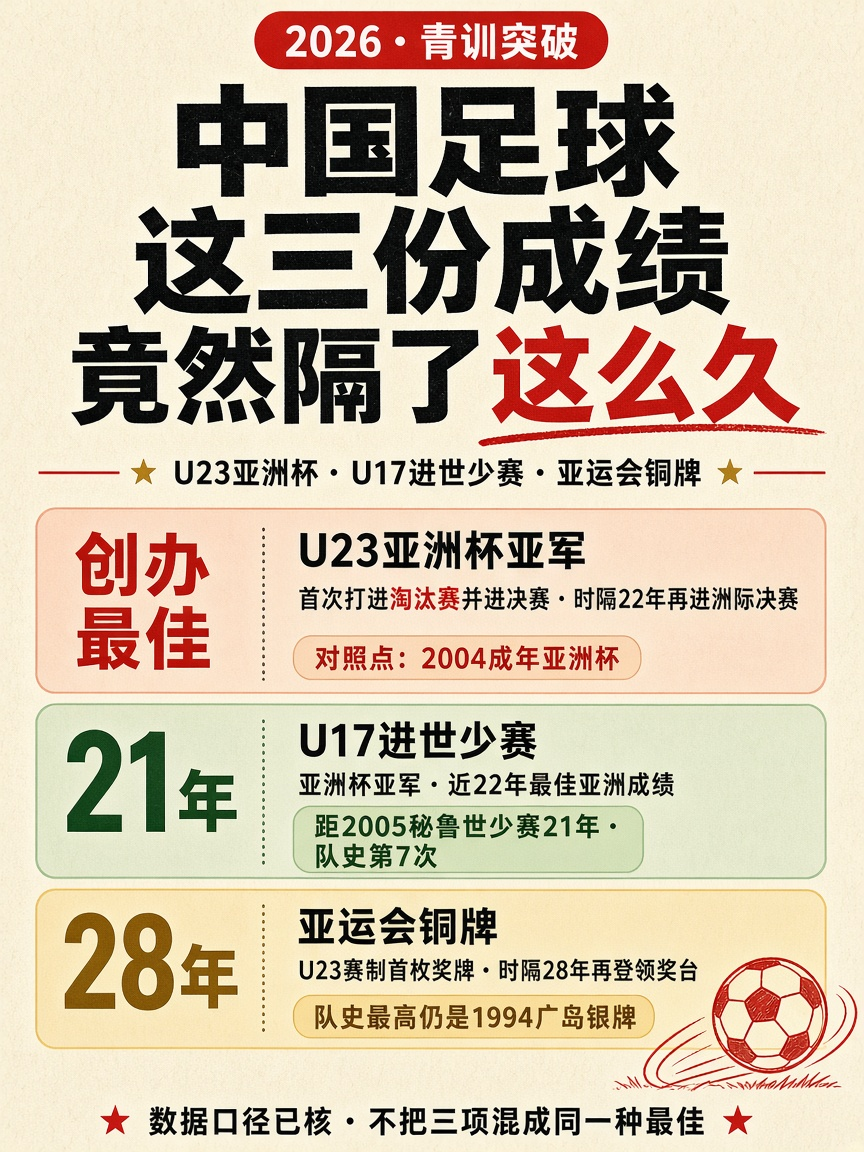
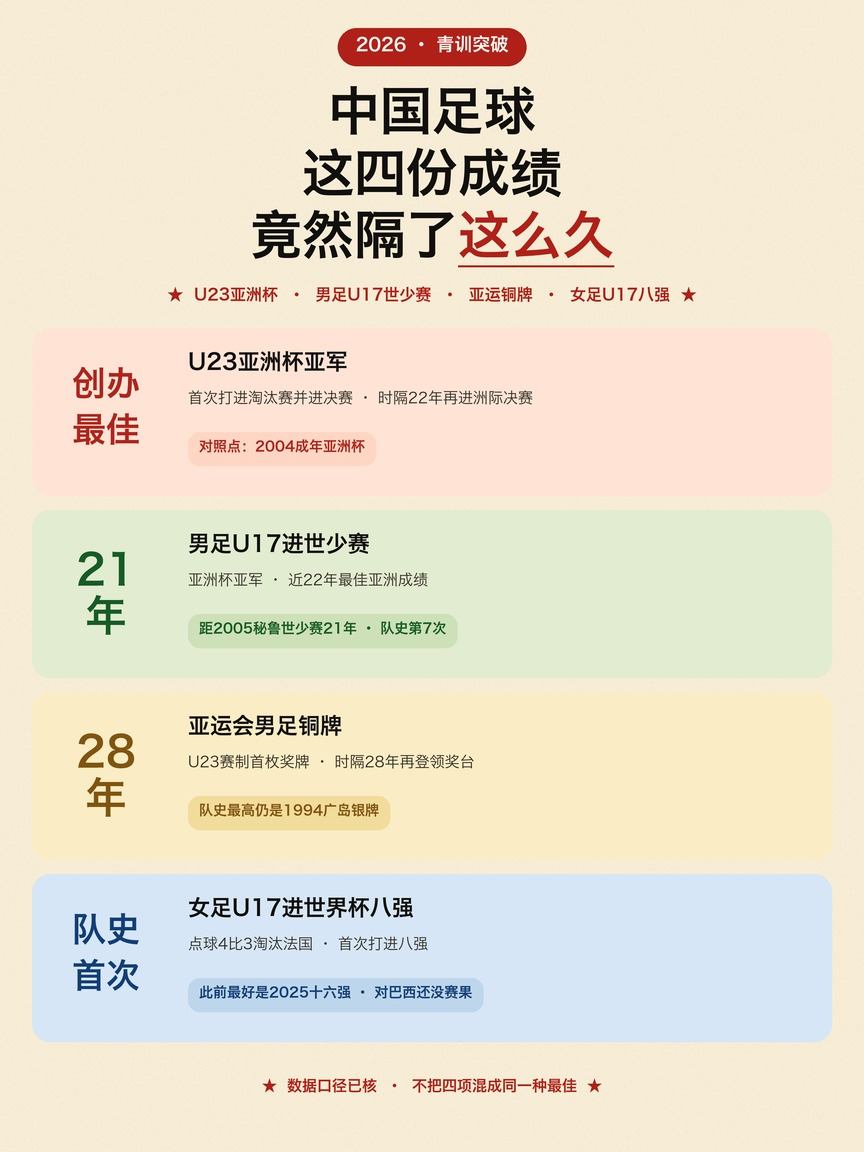
Add the U17 women's first World Cup quarter-final to the 2026 milestones.
The France penalty win is recorded as a first quarter-final, while the unplayed match against Brazil stays without a result.

diff --git a/assets/app.js b/assets/app.js
@@ -123,7 +123,7 @@ const UI_COPY = {
     "page.story-detail.title": "故事详情 | 青训球员追踪站",
     "page.story-detail.description": "查看人物和机构故事的时间线、公开争议与来源边界。",
     "page.milestones.title": "2026 里程碑 | 青训球员追踪站",
-    "page.milestones.description": "对照 2026 年中国男足 U23 亚洲杯亚军、U17 进世少赛和亚运会铜牌的历史间隔口径。",
+    "page.milestones.description": "对照 2026 年 U23 亚洲杯亚军、男足 U17 进世少赛、亚运会铜牌和女足 U17 世界杯八强的历史口径。",
     "site.kicker": "青训追踪台",
     "site.brand": "青训球员追踪站",
     "nav.aria": "主导航",
@@ -208,8 +208,8 @@ const UI_COPY = {
     "nav.dataCenter": "数据中心",
     "nav.predictions": "世界杯预测",
     "milestones.hero.eyebrow": "2026 Milestones",
-    "milestones.hero.title": "2026 中国男足里程碑",
-    "milestones.hero.text": "对照 U23 亚洲杯亚军、U17 进世少赛和亚运会铜牌分别隔了多久，以及每条成绩不能写成什么。",
+    "milestones.hero.title": "2026 中国足球里程碑",
+    "milestones.hero.text": "对照 U23 亚洲杯亚军、男足 U17 进世少赛、亚运会铜牌和女足 U17 世界杯八强，以及每条成绩不能写成什么。",
     "milestones.coverage.eyebrow": "Coverage",
     "milestones.coverage.value": "{count} 项已核成绩",
     "milestones.coverage.checked": "核查至 {date}",
@@ -251,7 +251,7 @@ const UI_COPY = {
     "home.quickLinks.tournamentsTitle": "赛事",
     "home.quickLinks.tournamentsText": "查看赛事时间、结果和中国队比赛明细。",
     "home.quickLinks.milestonesTitle": "2026里程碑",
-    "home.quickLinks.milestonesText": "对照三项成绩分别隔了多久，以及不能写成什么。",
+    "home.quickLinks.milestonesText": "对照四项成绩的历史口径，以及不能写成什么。",
     "home.quickLinks.overseasTitle": "留洋",
     "home.quickLinks.overseasText": "区分当前留洋样本与历史记录。",
     "home.quickLinks.spainTitle": "西班牙体系",
@@ -1279,7 +1279,7 @@ const UI_COPY = {
     "page.story-detail.title": "Story Detail | Youth Player Tracking Desk",
     "page.story-detail.description": "Timelines, public exchanges and source boundaries for people and institutions.",
     "page.milestones.title": "2026 Milestones | Youth Player Tracking Desk",
-    "page.milestones.description": "Compare China’s 2026 U23 Asian Cup runners-up, U17 World Cup qualification and Asian Games bronze against their historical intervals.",
+    "page.milestones.description": "Compare China’s 2026 U23 Asian Cup runners-up, men’s U17 World Cup qualification, Asian Games bronze and U17 women’s World Cup quarter-final.",
     "site.kicker": "Youth Tracking Desk",
     "site.brand": "Youth Player Tracking Desk",
     "nav.aria": "Main navigation",
@@ -1364,8 +1364,8 @@ const UI_COPY = {
     "nav.dataCenter": "Data",
     "nav.predictions": "World Cup Forecast",
     "milestones.hero.eyebrow": "2026 Milestones",
-    "milestones.hero.title": "China men’s 2026 milestones",
-    "milestones.hero.text": "Compare the U23 Asian Cup runners-up finish, U17 World Cup qualification and Asian Games bronze, including the interval each one waited and claims to avoid.",
+    "milestones.hero.title": "China's 2026 milestones",
+    "milestones.hero.text": "Compare the U23 Asian Cup runners-up finish, the men's U17 World Cup qualification, the Asian Games bronze and the U17 women's World Cup quarter-final, including what not to claim.",
     "milestones.coverage.eyebrow": "Coverage",
     "milestones.coverage.value": "{count} verified results",
     "milestones.coverage.checked": "Checked {date}",
@@ -1407,7 +1407,7 @@ const UI_COPY = {
     "home.quickLinks.tournamentsTitle": "Tournaments",
     "home.quickLinks.tournamentsText": "Check tournament dates, results, and China match detail.",
     "home.quickLinks.milestonesTitle": "2026 milestones",
-    "home.quickLinks.milestonesText": "See how long each of the three results waited, and what not to claim.",
+    "home.quickLinks.milestonesText": "See the historical frame for each of the four results, and what not to claim.",
     "home.quickLinks.overseasTitle": "Overseas",
     "home.quickLinks.overseasText": "Separate current overseas samples from historical records.",
     "home.quickLinks.spainTitle": "Spain system",
@@ -8323,7 +8323,7 @@ function renderMilestonesPage() {
             ${(item.sources ?? []).map((source) => `
               <a class="chip" href="${escapeHtml(source.url)}" target="_blank" rel="noreferrer">${escapeHtml(source.label)}</a>
             `).join("")}
-            <a class="inline-link" href="./tournament.html?id=${encodeURIComponent(tournamentId)}">${escapeHtml(t("milestones.card.viewTournament"))}</a>
+            <a class="inline-link" href="${escapeHtml(item.page_href || `./tournament.html?id=${encodeURIComponent(tournamentId)}`)}">${escapeHtml(item.page_label ? localizeText(item.page_label) : t("milestones.card.viewTournament"))}</a>
           </div>
         </div>
       </article>

diff --git a/milestones.html b/milestones.html
@@ -6,7 +6,7 @@
     <title>2026 里程碑 | 青训球员追踪站</title>
     <meta
       name="description"
-      content="对照 2026 年中国男足 U23 亚洲杯亚军、U17 进世少赛和亚运会铜牌的历史间隔口径。"
+      content="对照 2026 年 U23 亚洲杯亚军、男足 U17 进世少赛、亚运会铜牌和女足 U17 世界杯八强的历史口径。"
     />
     <link rel="stylesheet" href="./assets/styles.css?v=20261004-milestones" />
   </head>
@@ -44,8 +44,8 @@
         <section class="page-hero hero-tight">
           <div class="hero-copy">
             <p class="eyebrow" data-i18n="milestones.hero.eyebrow">2026 Milestones</p>
-            <h1 data-i18n="milestones.hero.title">2026 中国男足里程碑</h1>
-            <p class="hero-text" data-i18n="milestones.hero.text">对照 U23 亚洲杯亚军、U17 进世少赛和亚运会铜牌分别隔了多久，以及每条成绩不能写成什么。</p>
+            <h1 data-i18n="milestones.hero.title">2026 中国足球里程碑</h1>
+            <p class="hero-text" data-i18n="milestones.hero.text">对照 U23 亚洲杯亚军、男足 U17 进世少赛、亚运会铜牌和女足 U17 世界杯八强，以及每条成绩不能写成什么。</p>
           </div>
           <aside class="hero-spotlight">
             <p class="eyebrow" data-i18n="milestones.coverage.eyebrow">Coverage</p>
@@ -67,8 +67,8 @@
           <figure class="milestone-poster">
             <img
               id="milestonesPoster"
-              src="./assets/xiaohongshu-china-football-2026.jpg"
-              alt="2026 中国足球三项成绩的历史间隔图"
+              src="./assets/xiaohongshu-china-football-2026.jpg?v=20261101"
+              alt="2026 中国足球四项成绩图：U23 创办最佳、男足 U17 时隔 21 年、亚运时隔 28 年、女足 U17 队史首次八强"
             />
           </figure>
         </section>
@@ -85,6 +85,6 @@
         </nav>
       </footer>
     </div>
-    <script type="module" src="./assets/app.js?v=20261004-youth-disputes"></script>
+    <script type="module" src="./assets/app.js?v=20261101-u17-women"></script>
   </body>
 </html>

diff --git a/index.html b/index.html
@@ -122,7 +122,7 @@
               </a>
               <a class="quick-link-card" href="./milestones.html">
                 <h3 data-i18n="home.quickLinks.milestonesTitle">2026里程碑</h3>
-                <p data-i18n="home.quickLinks.milestonesText">对照三项成绩分别隔了多久，以及不能写成什么。</p>
+                <p data-i18n="home.quickLinks.milestonesText">对照四项成绩的历史口径，以及不能写成什么。</p>
               </a>
               <a class="quick-link-card" href="./overseas.html">
                 <h3 data-i18n="home.quickLinks.overseasTitle">留洋</h3>
@@ -185,6 +185,6 @@
       </footer>
     </div>
 
-    <script type="module" src="./assets/app.js?v=20261004-youth-disputes"></script>
+    <script type="module" src="./assets/app.js?v=20261101-u17-women"></script>
   </body>
 </html>

diff --git a/docs/research/china-2026-youth-breakthroughs.md b/docs/research/china-2026-youth-breakthroughs.md
@@ -1,13 +1,13 @@
-# 2026 中国男足三项突破的历史对照
+# 2026 中国足球四项成绩的历史对照
 
-更新时间：2026-10-04
+更新时间：2026-11-01
 
-2026 年中国男足国字号连续兑现三项可核成绩：U23 亚洲杯亚军、U17 亚洲杯亚军并获得 FIFA U-17 世界杯资格、爱知-名古屋亚运会铜牌。口语里常把 U17 世界杯叫成“世青赛”，站内仍区分：
+2026 年中国国字号记下四项可核成绩：U23 亚洲杯亚军、男足 U17 亚洲杯亚军并获得 FIFA U-17 世界杯资格、爱知-名古屋亚运会铜牌，以及女足 U17 世界杯八强。口语里常把 U17 世界杯叫成“世青赛”，站内仍区分：
 
-- **世少赛**：FIFA U-16 / U-17 World Championship / World Cup。2026 已获资格，赛事尚未开打。
+- **世少赛**：FIFA U-16 / U-17 World Championship / World Cup。男足 2026 已获资格，赛事尚未开打。女足 U17 世界杯是另一项赛事，见第 4 条。
 - **世青赛**：FIFA World Youth Championship / U-20 World Cup。中国男足最近一次参赛仍是 2005 荷兰，2026 没有新的 U20 世界赛资格。
 
-结构化摘要写在对应 `tournament-archive.json` 的 `china_summary`，以及 `tournaments.json` 的赛事说明。
+结构化摘要写在对应 `tournament-archive.json` 的 `china_summary`，以及 `tournaments.json` 的赛事说明。女足 U17 八强写在 `women-football.json` 和 `china-2026-milestones.json`，不并入男足赛事档案。
 
 ## 对照表
 
@@ -16,8 +16,9 @@
 | U23 亚洲杯亚军 | 该项赛事创办以来最佳；此前参加的决赛圈均未进入淘汰赛 | 赛事本身 2013 年起办，不是“时隔 N 年再获亚军”。另可记：时隔 22 年再进洲际大赛决赛，上次是 2004 成年亚洲杯亚军 | 中国男足各级队史最佳，或高于 2004 成年亚洲杯亚军 |
 | U17 亚洲杯亚军，并获 2026 世少赛资格 | 亚洲杯决赛是 2004 年后近 22 年最佳；世少赛资格是时隔 21 年重返，也是队史第 7 次 | 2004 亚少赛冠军 → 2026 亚军，间隔 22 年。2005 秘鲁世少赛 → 2026 卡塔尔世少赛，间隔 21 年 | 亚洲杯队史最佳（1992、2004 两次夺冠仍更高）；队史第 6 次世少赛；把这次写成世青赛资格 |
 | 亚运会男足铜牌 | 时隔 28 年再获亚运奖牌；2002 年改为 U23 加超龄后首次奖牌、也是该赛制下最佳 | 1998 曼谷铜牌 → 2026 铜牌，间隔 28 年 | 队史最佳（1994 广岛银牌仍更高）；1978 曼谷是铜牌并列金牌（朝韩并列金牌，中国铜牌） |
+| 女足 U17 世界杯八强 | 该项赛事已建档决赛圈的首次八强；此前已完赛最好成绩是 2025 十六强 | 不是“时隔 N 年再进八强”。对照点是 2025 十六强，以及已建档的 5 次决赛圈参赛 | 中国女足世界杯队史最佳（成年队 1999 亚军仍更高）；第 6 次参赛；把尚未开打的对巴西写成晋级四强 |
 
-## 三项突破
+## 四项成绩
 
 ### 1. U23 亚洲杯：赛事历史最佳
 
@@ -53,6 +54,14 @@
 
 金牌战日本对韩国的官方关闭赛果仍待写入，不在本文件推断冠军。
 
+### 4. 女足 U17 世界杯：队史首次八强
+
+2026-10-29，十六强常规时间 0 比 0，点球 4 比 3 淘汰法国，中国队进入八强。中国足协和新华社都写成该项赛事队史首次八强。此前已完赛届次的最好成绩是 2025 年十六强。
+
+已建档决赛圈参赛是 2012、2014、2022、2025、2026，共 5 次。公开稿里偶见的“第 6 次”不采用。
+
+这条只记进入八强。八强对巴西安排在北京时间 2026-11-02 02:00，核查日 2026-11-01 还没有赛果，不能预写胜负，也不能写成最终名次。成年女足 1999 年世界杯亚军仍高于这条 U17 成绩。
+
 ## 来源
 
 1. [中国日报 / 新华社：U23 亚洲杯决赛，亚军为该项历史最好成绩](https://cn.chinadaily.com.cn/a/202601/25/WS697561aaa310942cc499caca.html)
@@ -65,3 +74,5 @@
 8. [RSSSF：2004 AFC U-17 Championship，中国 1 比 0 朝鲜夺冠](https://www.rsssf.org/tablesa/as-u17-04.html)
 9. [中国日报：2004 年中国再夺 U-17 亚洲冠军](http://www.chinadaily.com.cn/english/doc/2004-09/19/content_375745.htm)
 10. [Wikipedia：亚运会男足奖牌，中国 1978/1998 铜牌、1994 银牌](https://en.wikipedia.org/wiki/Football_at_the_Asian_Games)
+11. [中国足协：U17 女足点球淘汰法国，首次晋级八强](https://www.thecfa.cn/nvu17news/20261030/38343.html)
+12. [新华社：点球大战淘汰法国队，中国 U17 女足首进世界杯八强](https://www.xinhuanet.com/20261030/8a983e0caf1a4c14b86c011fc281c407/c.html)

diff --git a/docs/README.md b/docs/README.md
@@ -22,7 +22,7 @@
 - [亚洲/中国球员与教练信息收集说明](research/asian-chinese-player-coach-collection.md)
 - [日韩 U17/U23 青训路径来源层补充](research/japan-korea-u17-u23-source-layers.md)
 - [2026 爱知-名古屋亚运会中国男足](research/china-asian-games-men-2026.md)
-- [2026 中国男足三项突破的历史对照](research/china-2026-youth-breakthroughs.md)
+- [2026 中国足球四项成绩的历史对照](research/china-2026-youth-breakthroughs.md)
 - [伊朗及剩余 U20/U23 官方名单来源审计](research/issue-55-iran-remaining-u20-u23-source-audit.md)
 - [海外青训、球探与青年球员检索源目录](research/scouting-source-directory.md)
 - [比利亚雷亚尔 U19 梯队注册与年龄结构（2026/27）](research/villarreal-u19-registration-2026-27.md)

diff --git a/CHANGELOG.md b/CHANGELOG.md
@@ -4,6 +4,16 @@ All notable project data-model, generation, and documentation changes should be 
 
 This project tracks research data, so changelog entries should separate code changes, data-scope changes, major data additions, and corrections.
 
+## 2026-11-01
+
+### Added
+
+- Added China U17 women's first FIFA U-17 Women's World Cup quarter-final to the 2026 milestones page. The 29 October penalty win over France is the archived first quarter-final; the quarter-final against Brazil stays unplayed.
+
+### Data Scope Notes
+
+- The milestone is not a senior women's World Cup peak. The 1999 runners-up remain higher, and the five archived finals appearances are 2012, 2014, 2022, 2025 and 2026.
+
 ## 2026-10-30
 
 ### Added
